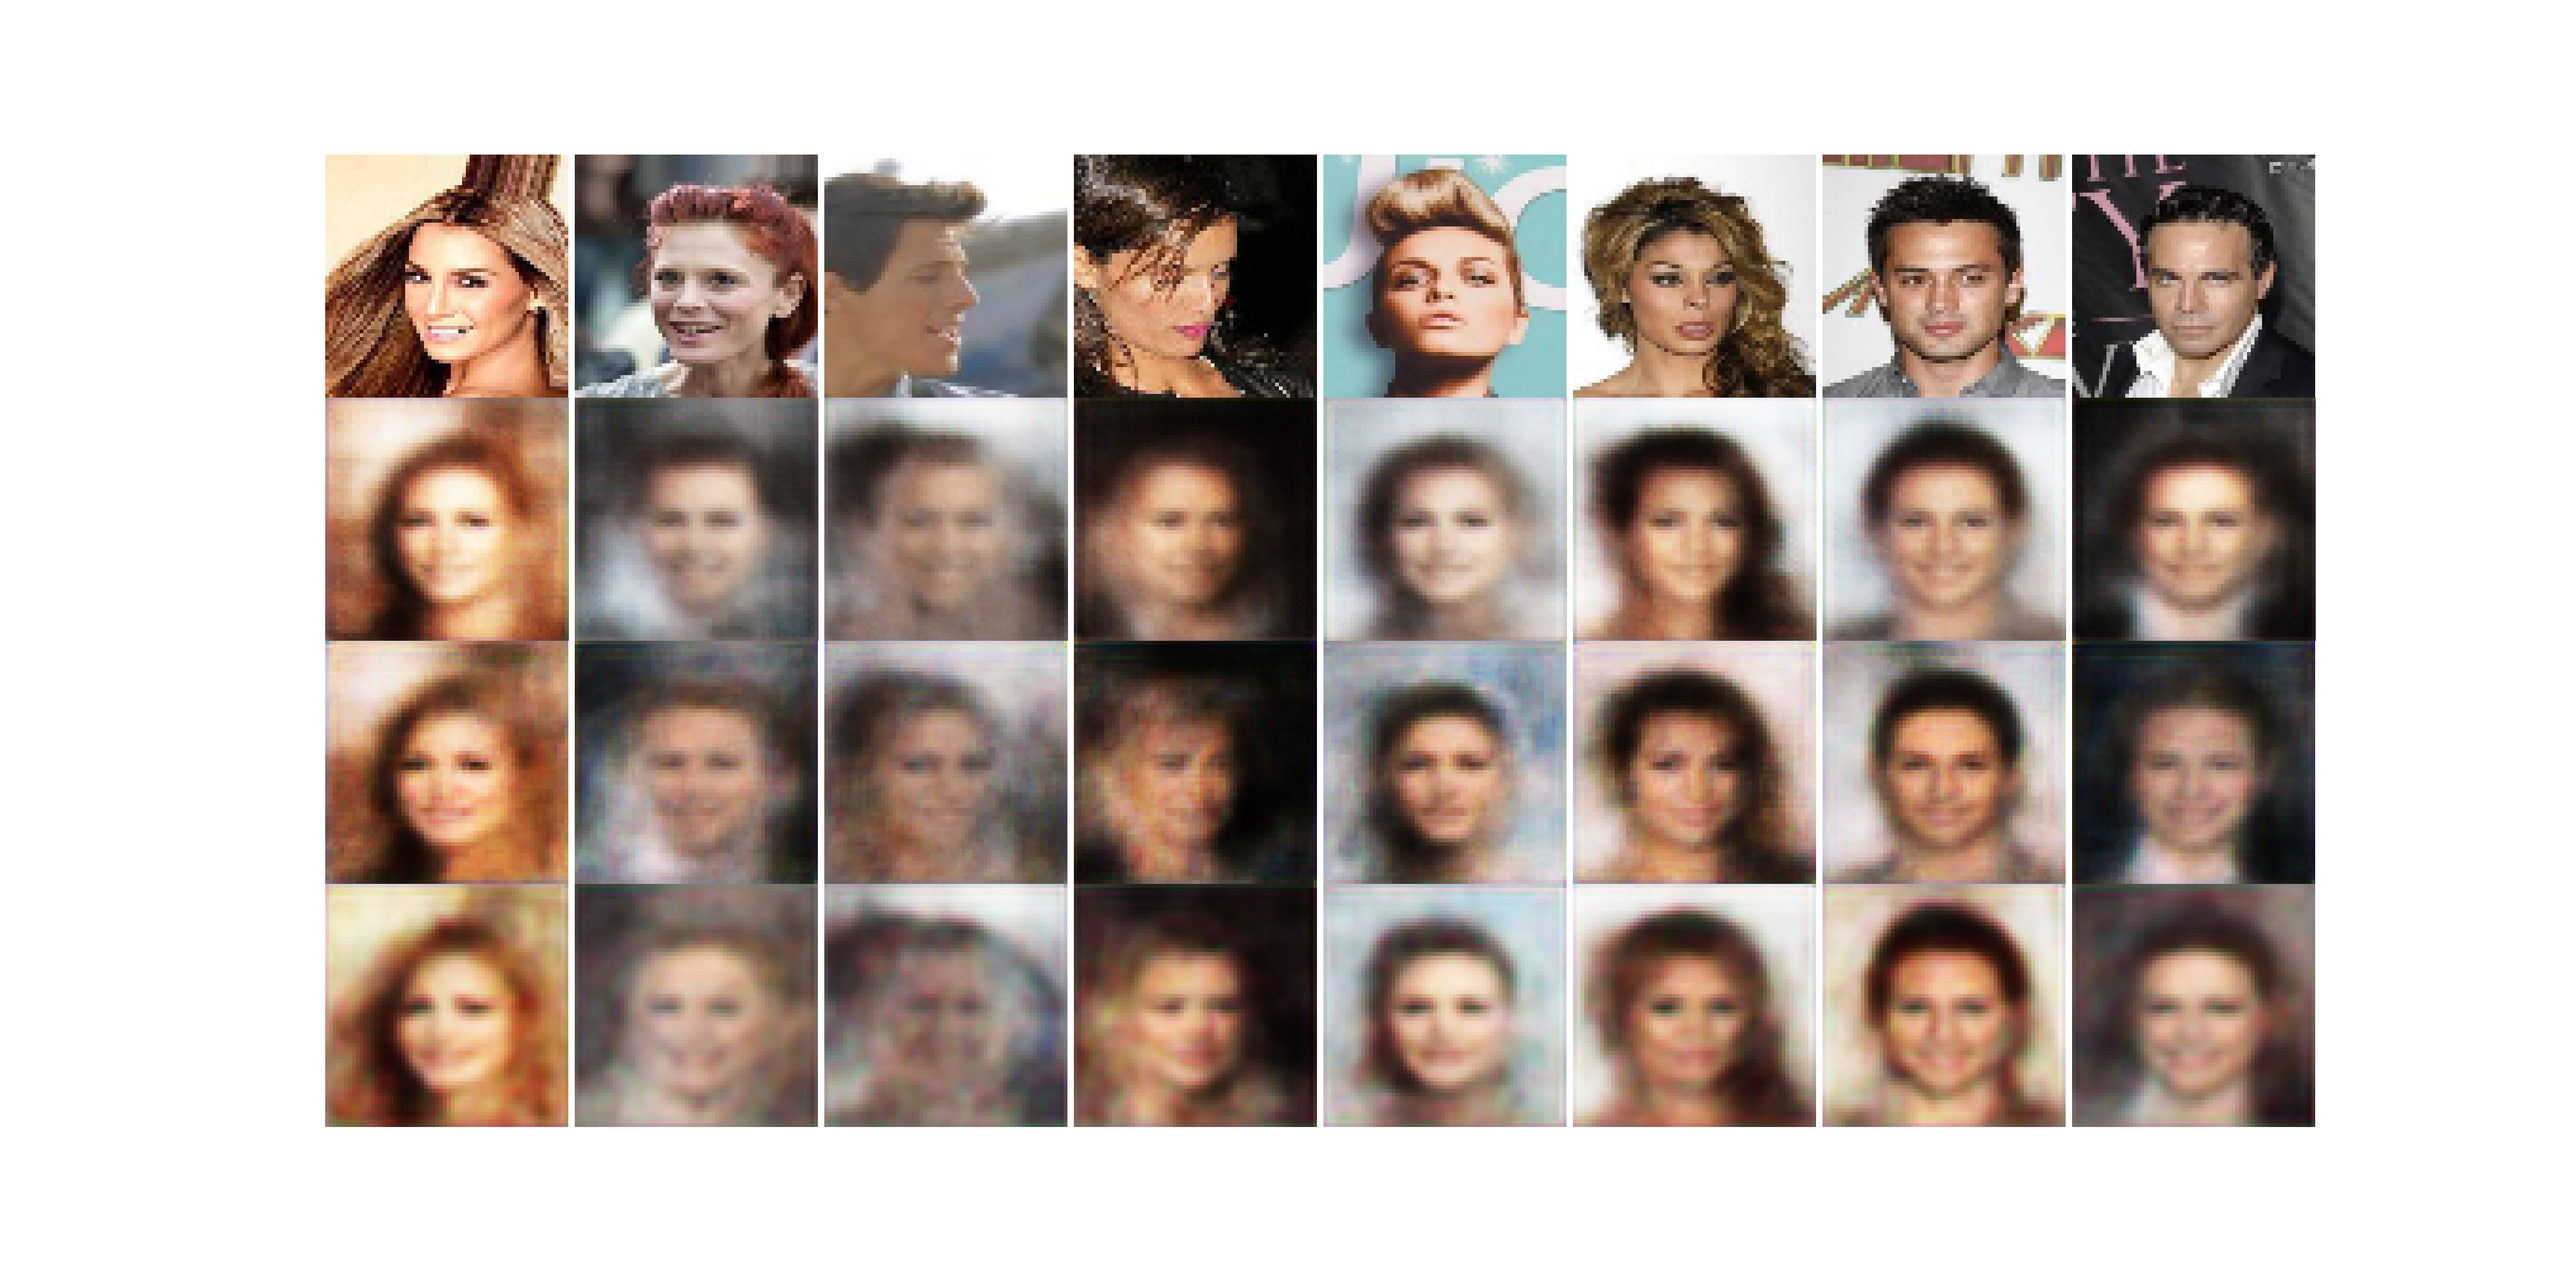
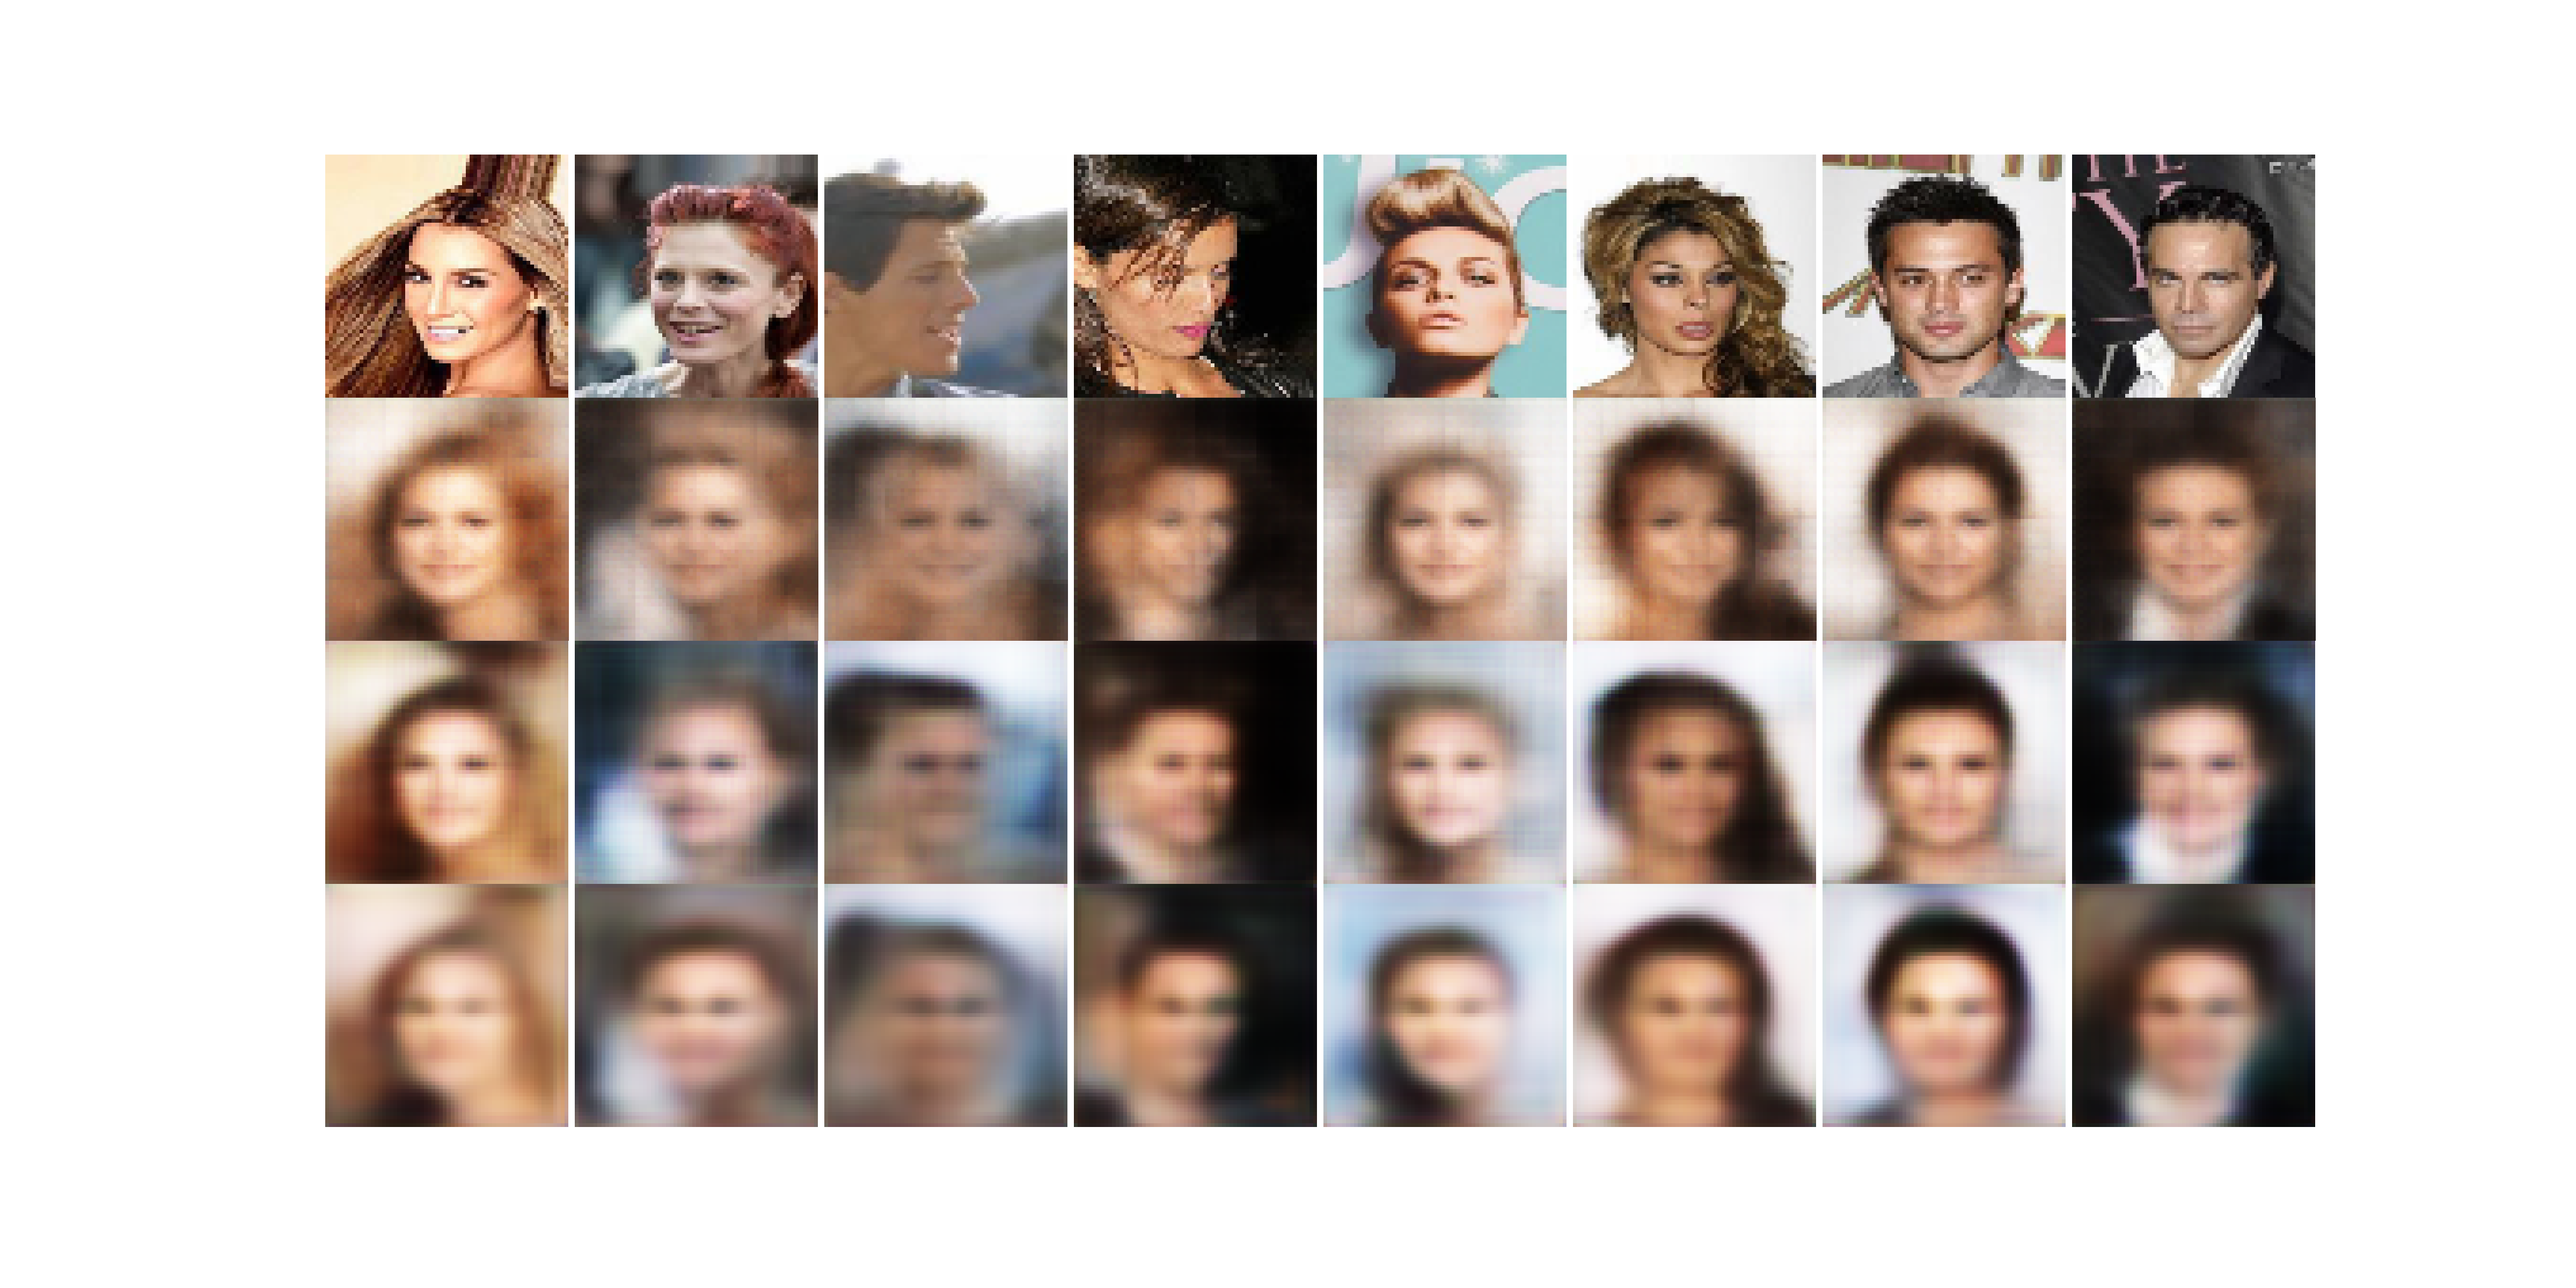
Update des figures

Changed region(s): [[0.125, 0.2812, 0.9062, 0.875]]

diff --git a/ift6135-devoir-4-partie-pratique-rapport.md b/ift6135-devoir-4-partie-pratique-rapport.md
@@ -27,28 +27,20 @@ l'architecture et des techniques utilisés pour DCGAN [@http://zotero.org/users/
 En particulier, nous avons utilisé une activation sigmoïde pour reconstruire le
 spectre RGB du générateur normalisé sur l'intervalle $[0, 1]$.
 
-Couche      Détails
-------      -------
-conv2d      32 kernel $3 \times 3$
-conv2d      32 kernel $3 \times 3$, strides 2
-max pooling strides 2
-conv2d      64 kernel $3 \times 3$
-conv2d      64 kernel $3 \times 3$, strides 2
-max pooling strides 2
+Couche Détails
+------ -------
+conv2d 128  kernel $5 \times 5$ strides 2
+conv2d 256  kernel $5 \times 5$ strides 2
+conv2d 512  kernel $5 \times 5$ strides 2
+conv2d 1024 kernel $5 \times 5$ strides 2
 flatten
-dense       100 avec activation Tanh
 
 : Architecture de l'encodeur \label{table:1}
 
-<<<<<<< HEAD
-Le décodeur suit l'architecture suivante:
-=======
-L'encodeur utilise une activation Tanh telle que décrite dans le tableau
-\ref{table:1}. Nous avons eu des problèmes avec l'activation ReLU qui faisait
-parfois exploser la variance de l'inférence variatonelle.
+Toutes les convolution de la table \ref{table:1} utilisent la normalisation par
+lot et une activation LeakyReLU.
 
 Le décodeur possède l'architecture générale suivante:
->>>>>>> 17ef574d0280117c9589a7a29d01696a0ad6223b
 
 Couche     Détails
 ------     -------
@@ -61,7 +53,6 @@ upscaling  implementation-dependant
 deconv2d   32 kernel $3 \times 3$
 
 : Architecture du décodeur
-
 
  Nous avons empilé 2 convolutions avec 1 max pooling.
 
